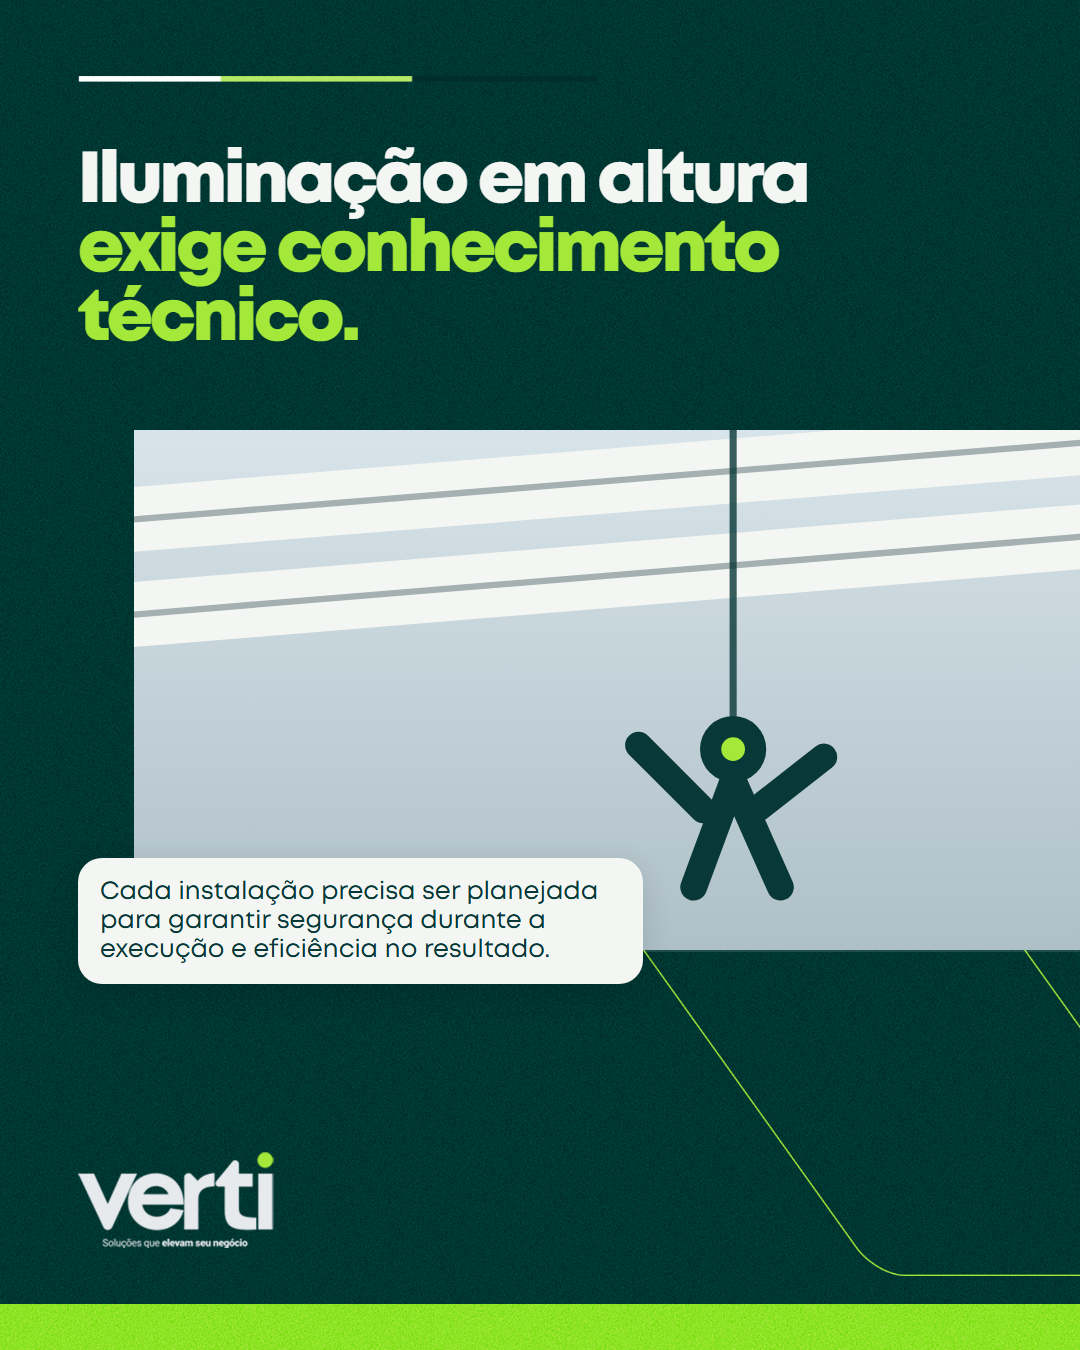
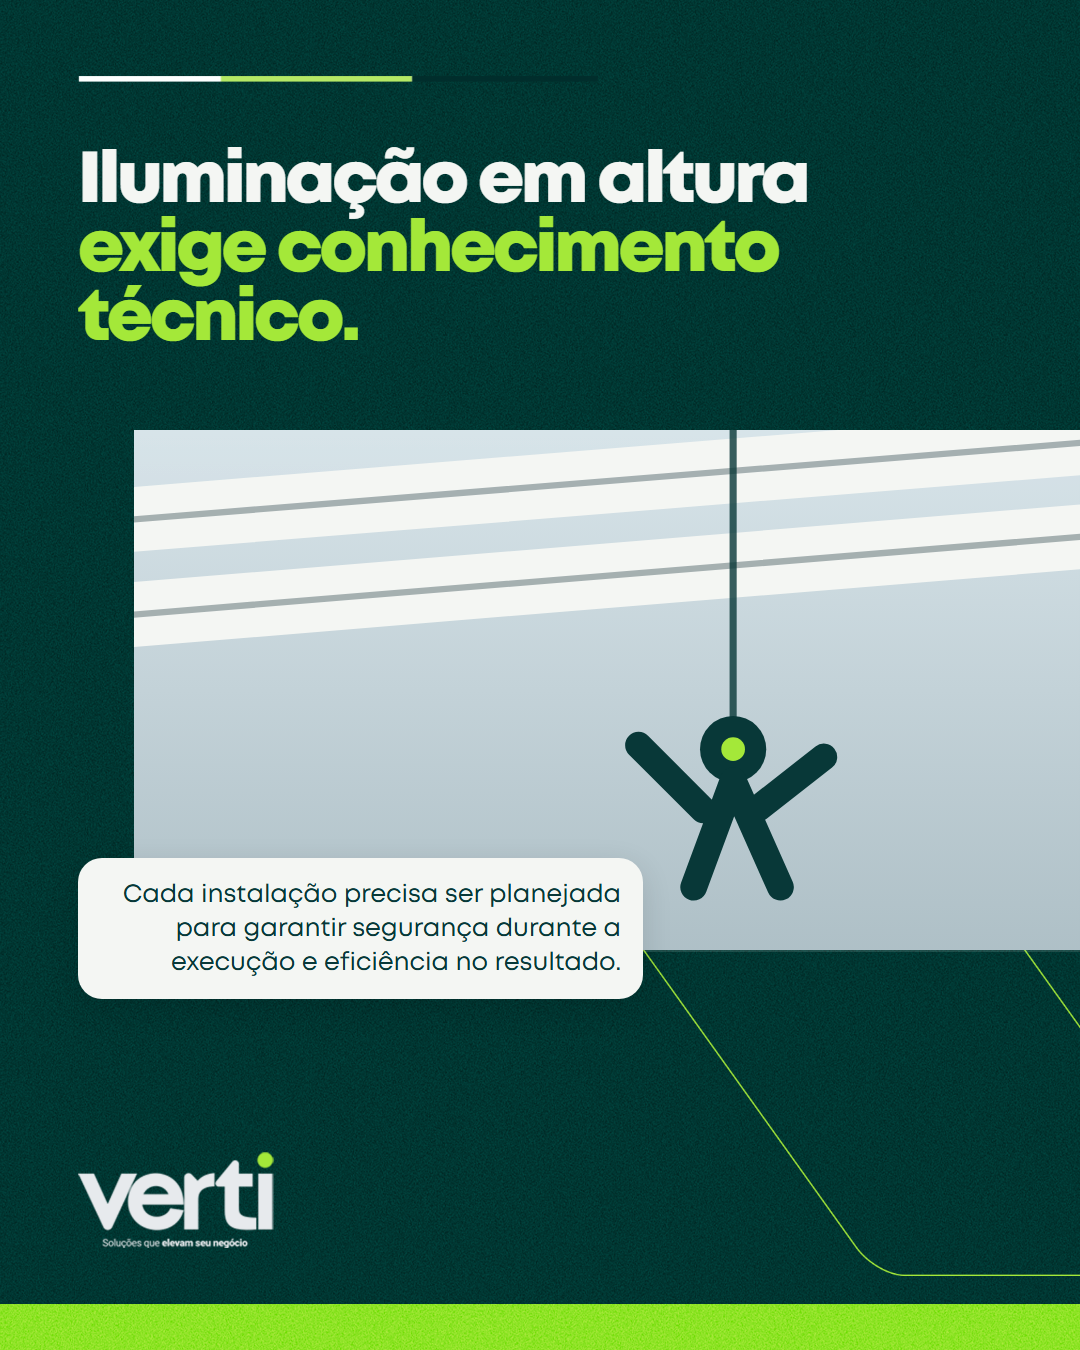
Ajusta alinhamento do texto da Verti

Changed region(s): [[0.0611, 0.6533, 0.6111, 0.7467]]

diff --git a/src/lib/visual-engine.ts b/src/lib/visual-engine.ts
@@ -58,8 +58,8 @@ ${getBrandFontFaceCss(brand)}
 .verti-headline{position:absolute;z-index:4;left:${output === "feed" ? 78 : 92}px;right:${output === "feed" ? 120 : 100}px;top:${output === "feed" ? 145 : 210}px;margin:0;font-family:'${brand.typography.headline.family}',${brand.typography.headline.fallback};font-size:${headlineFontSize}px;line-height:.96;letter-spacing:-.045em;font-weight:800;}
 .verti-headline span,.verti-headline strong{display:block;}.verti-headline span{color:${brand.colors.light};}.verti-headline strong{color:${brand.colors.accent};font-weight:800;}
 .verti-photo{position:absolute;z-index:3;left:${output === "feed" ? 134 : 106}px;right:0;top:${output === "feed" ? 430 : 650}px;height:${output === "feed" ? 520 : 790}px;background:${brand.colors.surface} url('${escapeHtml(photo)}') ${slide.imagePosition.x}% ${slide.imagePosition.y}%/cover no-repeat;box-shadow:0 2px 0 rgba(255,255,255,.12);}
-.verti-callout{position:absolute;z-index:5;left:${output === "feed" ? 78 : 68}px;top:${output === "feed" ? 858 : 1364}px;width:${output === "feed" ? 565 : 650}px;min-height:${output === "feed" ? 104 : 118}px;box-sizing:border-box;border-radius:24px;background:${brand.colors.light};color:${brand.colors.primary};display:flex;align-items:center;padding:${output === "feed" ? "20px 22px" : "22px 26px"};font-size:${Math.max(18, Math.min(output === "feed" ? 25 : 27, bodyFit.fontSize))}px;line-height:1.15;font-weight:400;box-shadow:0 8px 30px rgba(0,0,0,.12);}
-.verti-callout-text{flex:1}
+.verti-callout{position:absolute;z-index:5;left:${output === "feed" ? 78 : 68}px;top:${output === "feed" ? 858 : 1364}px;width:${output === "feed" ? 565 : 650}px;min-height:${output === "feed" ? 104 : 118}px;box-sizing:border-box;border-radius:24px;background:${brand.colors.light};color:${brand.colors.primary};display:flex;align-items:center;justify-content:center;padding:${output === "feed" ? "20px 22px" : "22px 26px"};font-size:${Math.max(18, Math.min(output === "feed" ? 25 : 27, bodyFit.fontSize))}px;line-height:1.35;font-weight:400;box-shadow:0 8px 30px rgba(0,0,0,.12);}
+.verti-callout-text{display:block;width:100%;margin:auto;text-align:right}
 .verti-logo{position:absolute;z-index:4;left:${output === "feed" ? 78 : 92}px;bottom:${output === "feed" ? 102 : 170}px;width:${output === "feed" ? 245 : 285}px;height:${output === "feed" ? 96 : 112}px;object-fit:contain;object-position:left center;}
 .verti-overflow{position:absolute;z-index:7;right:25px;bottom:25px;padding:8px 12px;border-radius:8px;background:#fff;color:#8a2d1d;font:700 16px Arial,sans-serif;}
   </style><main class="verti-slide"><img class="verti-accent-line" src="${escapeHtml(accentLine)}" alt=""><img class="verti-outline" src="${escapeHtml(outline)}" alt=""><h1 class="verti-headline"><span>${escapeHtml(headline.lead)}</span>${headline.accent ? `<strong>${escapeHtml(headline.accent)}</strong>` : ""}</h1><div class="verti-photo" role="img" aria-label="${escapeHtml(slide.content.visualIntent || "Imagem do serviço Verti")}"></div>${support ? `<div class="verti-callout"><span class="verti-callout-text">${escapeHtml(support)}</span></div>` : ""}<img class="verti-logo" src="${escapeHtml(logo.path)}" alt="${escapeHtml(brand.name)}">${headlineFit.overflow || bodyFit.overflow ? `<div class="verti-overflow">Revise o tamanho do texto</div>` : ""}</main>`;

diff --git a/src/lib/__tests__/verti-visual.test.ts b/src/lib/__tests__/verti-visual.test.ts
@@ -59,6 +59,8 @@ describe("aparência da Verti · Opção 01", () => {
     expect(feedHtml).not.toContain("verti-marker");
     expect(feedHtml).not.toContain("↗");
     expect(feedHtml).toMatch(/\.verti-callout\{[^}]*font-weight:400/);
+    expect(feedHtml).toMatch(/\.verti-callout\{[^}]*line-height:1\.35/);
+    expect(feedHtml).toMatch(/\.verti-callout-text\{[^}]*text-align:right/);
     expect(storyHtml).toMatch(/\.verti-headline\{[^}]*font-size:80px/);
 
     const [feed, story] = await Promise.all([
